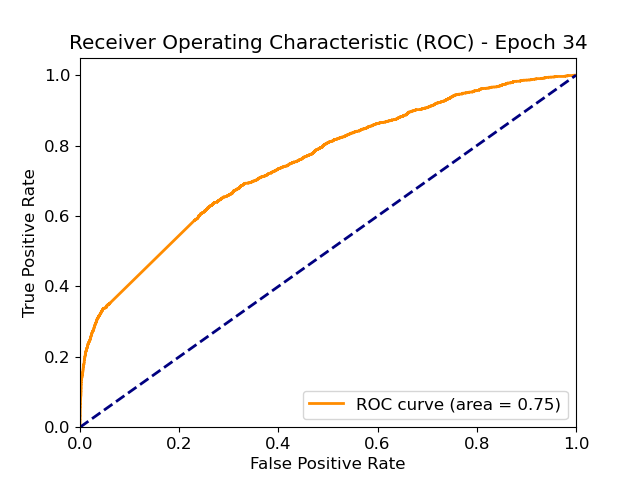
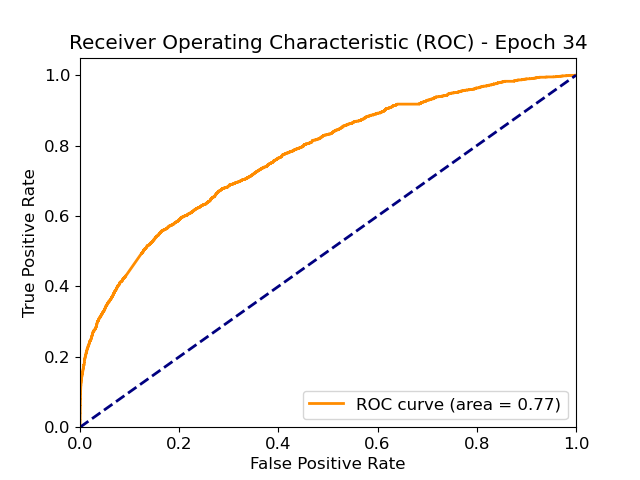
1.0

diff --git a/model_trainer.py b/model_trainer.py
@@ -100,6 +100,10 @@ class TrainModel:
             "GAMMA": GAMMA,
             "STEP_SIZE": STEP_SIZE,
             "device": DEVICE,
+            "SAMPLE_METHOD": SAMPLE_METHOD,
+            "SEED": SEED,
+            "ALPHA_LOSS": ALPHA_LOSS,
+            "GAMMA_LOSS": GAMMA_LOSS
         }
         with open(f'./{self.model_name}/hyperparameters.json', 'w') as json_file:
             json.dump(hyperparameters, json_file, indent=4)

diff --git a/function.py b/function.py
@@ -187,7 +187,7 @@ def plot_info(info, model_name):
     plt.close()
 
 class FocalLoss(nn.Module):
-    def __init__(self, alpha=1, gamma=2, reduction='mean'):
+    def __init__(self, alpha=1, gamma=3, reduction='mean'):
         """
         Focal Loss
         :param alpha: 平衡因子
